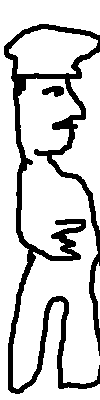
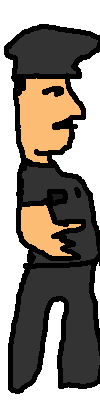
update visuals
player police animation

diff --git a/run_game.py b/run_game.py
@@ -23,20 +23,27 @@ class player():
 		#images
 		self.images = []
 		self.images.append(pygame.image.load('./assets/player-1.png').convert_alpha())
+		self.images.append(pygame.image.load('./assets/player-1.png').convert_alpha())
 		self.images.append(pygame.image.load('./assets/player-2.png').convert_alpha())
+		self.images.append(pygame.image.load('./assets/player-3.png').convert_alpha())
+		self.images.append(pygame.image.load('./assets/player-4.png').convert_alpha())
+		self.images.append(pygame.image.load('./assets/player-4.png').convert_alpha())
+		self.images.append(pygame.image.load('./assets/player-3.png').convert_alpha())
+		self.images.append(pygame.image.load('./assets/player-2.png').convert_alpha())
+
 		self.index = 0
 		self.image = self.images[self.index]
 
 		self.rect = self.image.get_rect()
 		self.rect.x = 200
-		self.rect.y = 250
+		self.rect.y = 402
 
 		# self.image.fill((255, 0, 0))
 
 		self.speed_x=20
 
 
-		self.floor = 250
+		self.floor = 402
 
 
 		self.jump = False
@@ -504,7 +511,7 @@ def running_game(screen):
 		# background_1.draw(screen,collision)
 		#  background_2.draw(screen,collision)
 		
-		screen.fill((50,50,50))
+		screen.fill((130,206,235))
 
 		city_back2a.draw(screen,collision)
 		city_back2b.draw(screen,collision)
